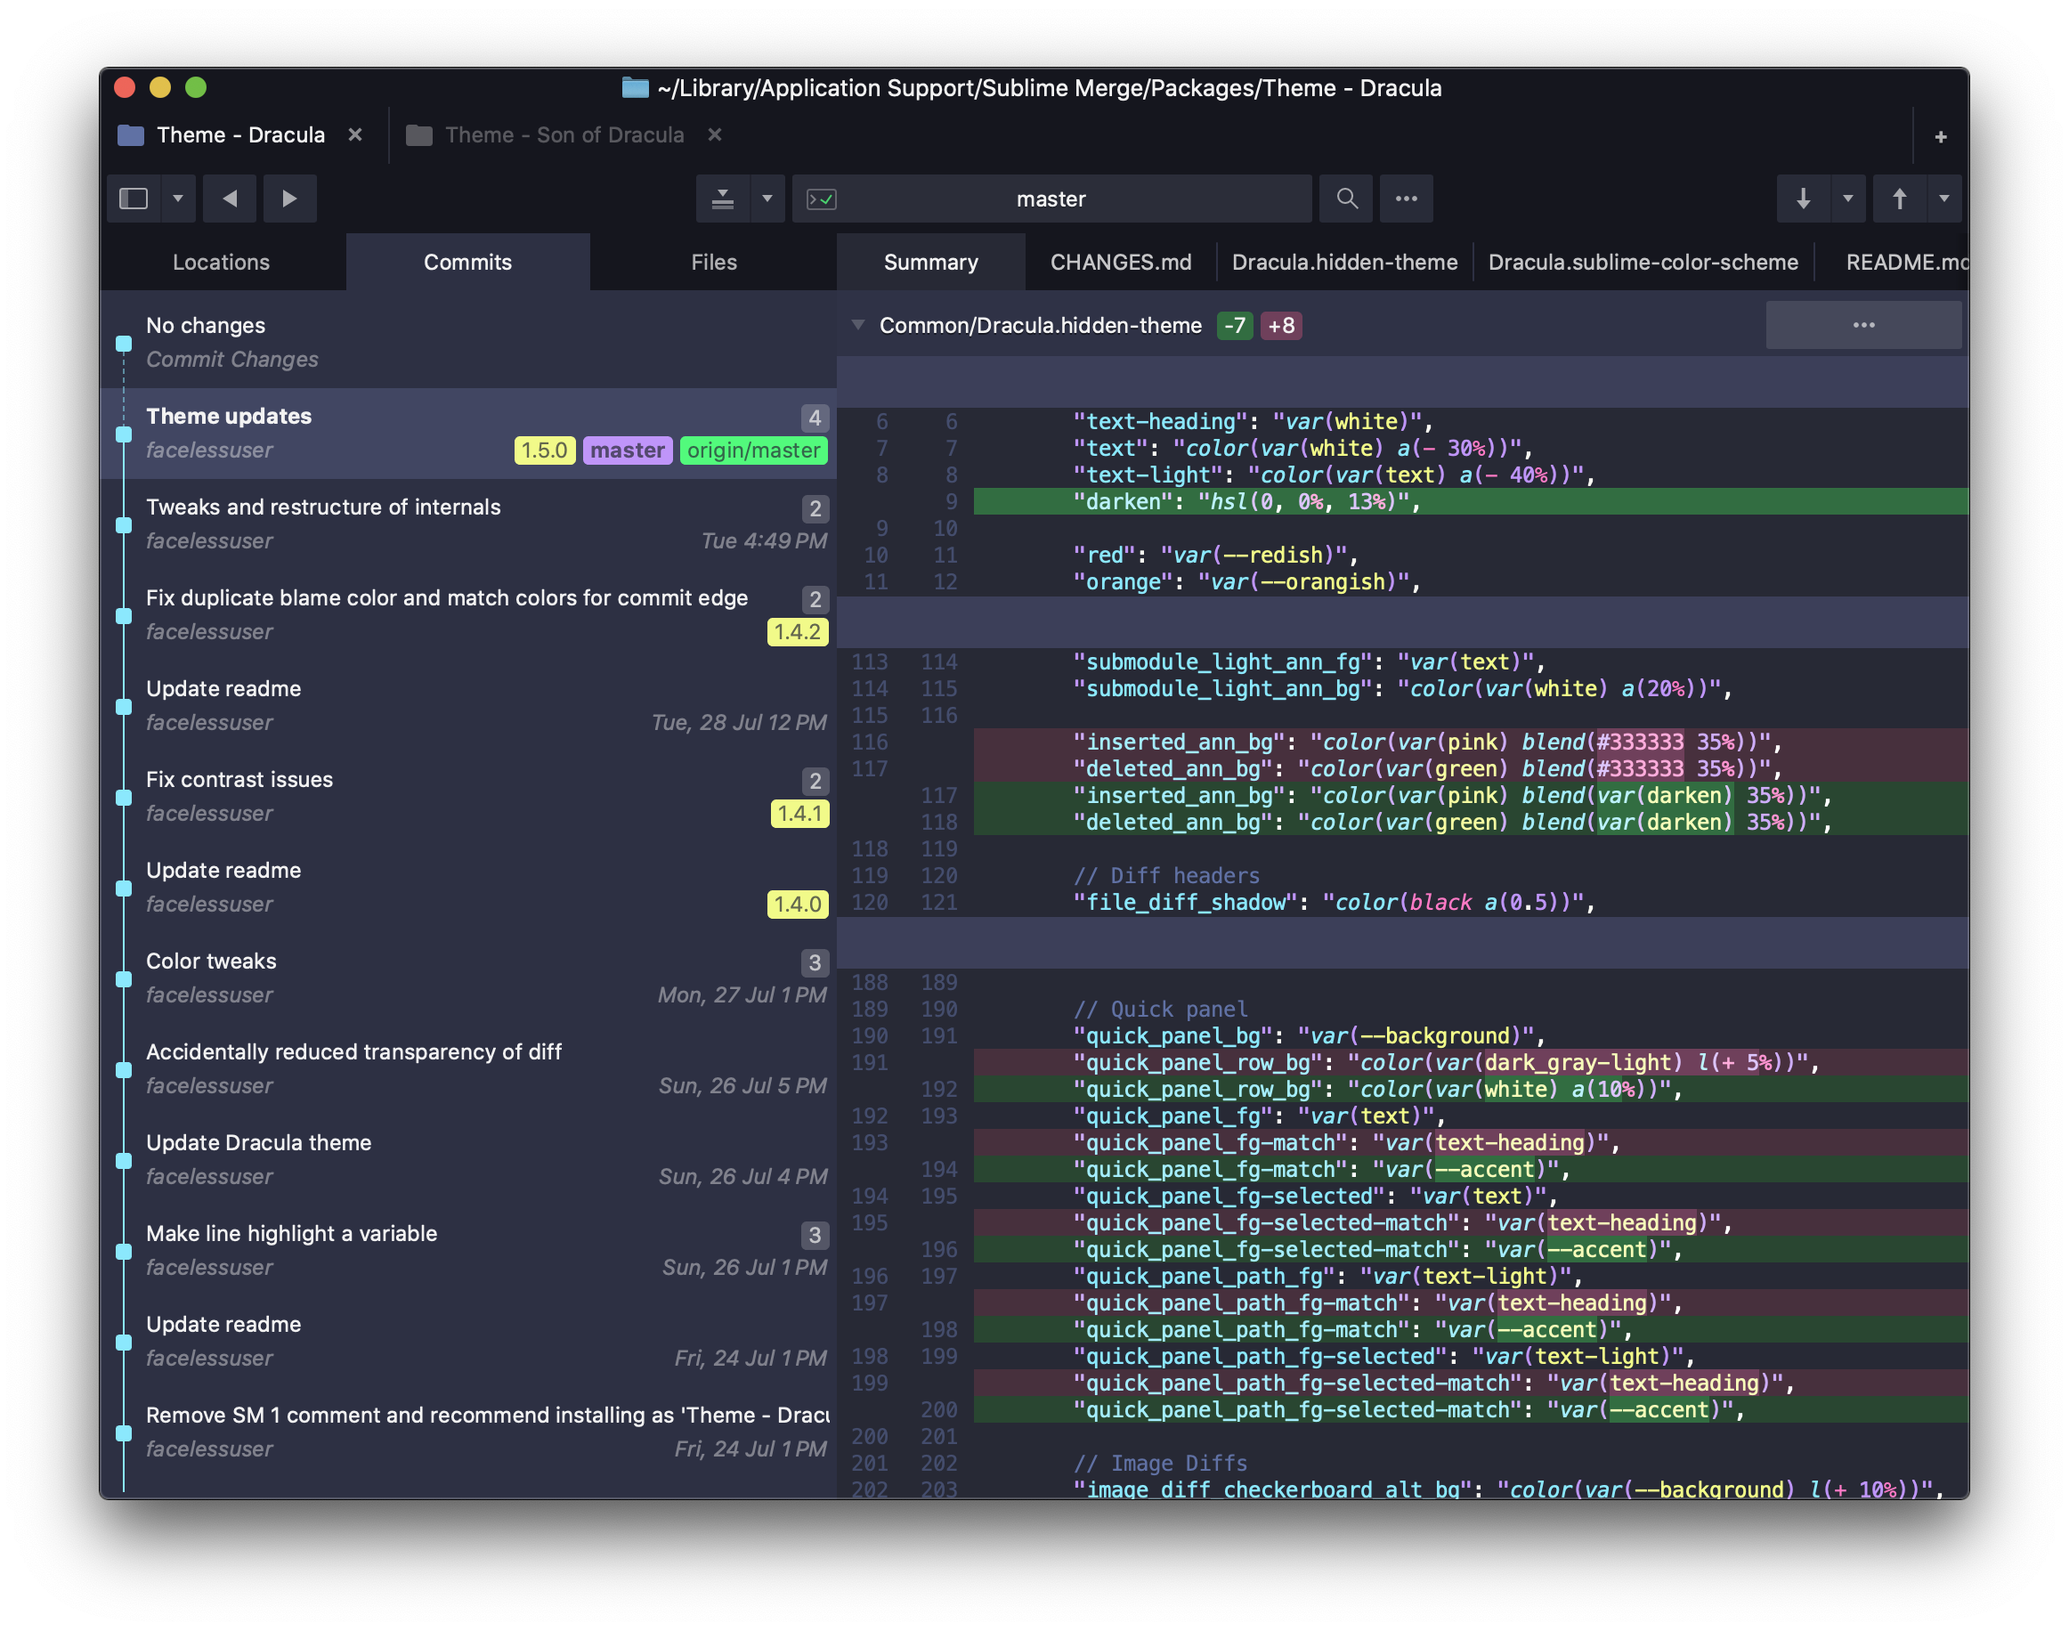
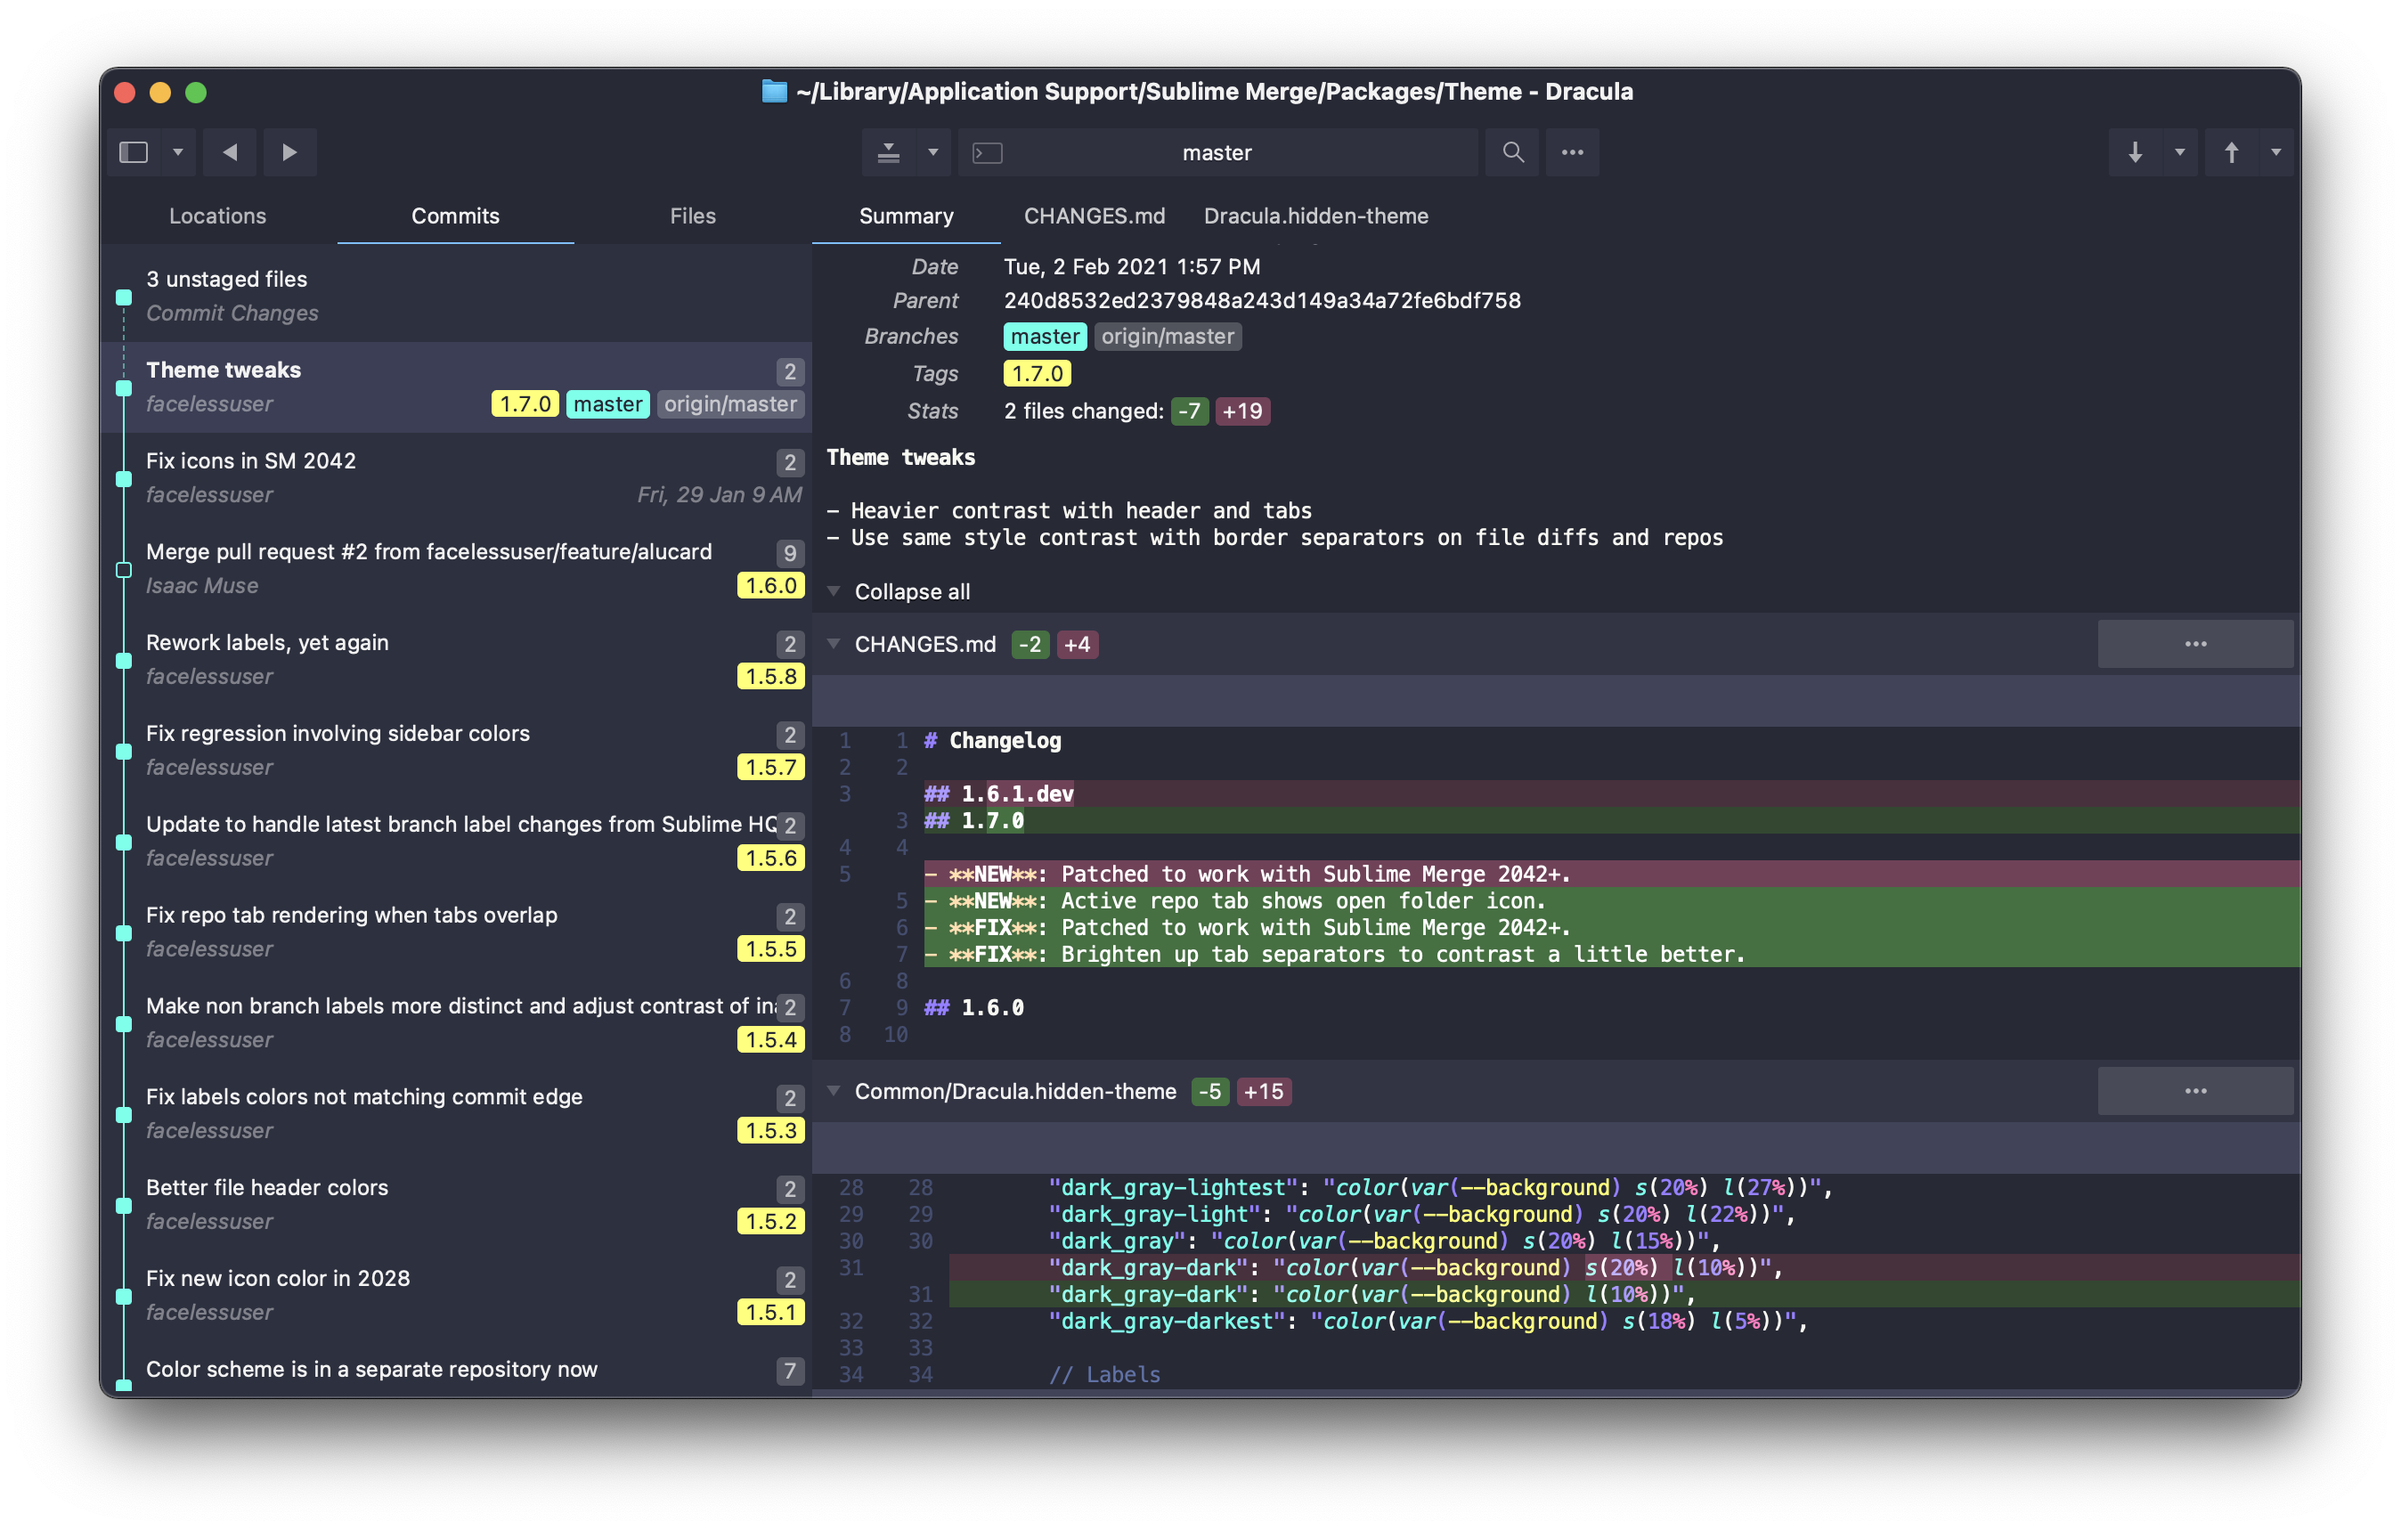
Redesign look

diff --git a/CHANGES.md b/CHANGES.md
@@ -1,5 +1,9 @@
 # Changelog
 
+## 1.8.0
+
+- **NEW**: Redesigned look.
+
 ## 1.7.0
 
 - **NEW**: Active repo tab shows open folder icon.
